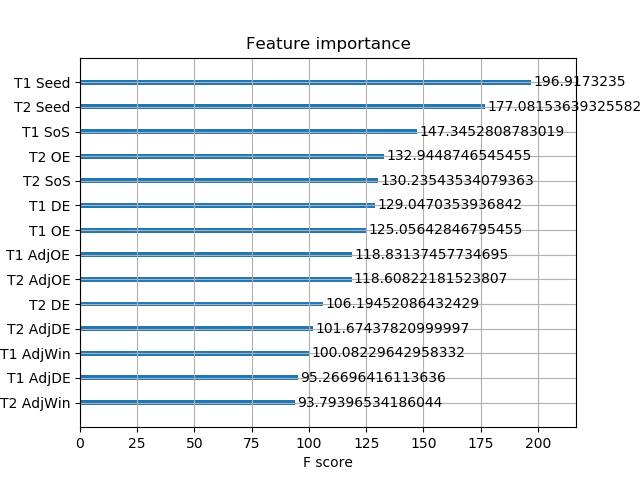
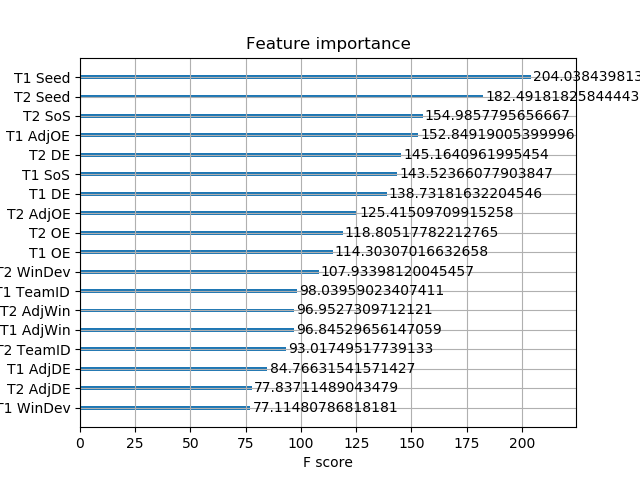
Updated code for best functioning models.

diff --git a/parse_data.py b/parse_data.py
@@ -6,7 +6,7 @@ def parse_data(season_file, teams_file, sos_file):
     # read csv into panda dataframe using headers and found delimiter
     season_data = pd.read_csv(season_file, delimiter=',')
     team_info = pd.read_csv(teams_file, delimiter=',', encoding="latin1")
-    sos_info = pd.read_csv(sos_file, delimiter='\t')
+    sos_info = pd.read_csv(sos_file, delimiter=',')
     
     team_data_cols = [
         "Year",
@@ -62,7 +62,7 @@ def parse_data(season_file, teams_file, sos_file):
         i += 2
         year = game.Season
 
-    team_data.to_csv("/home/sherndo/Documents/Classes/MachineLearning/ML_Project/season_results.csv", index=False)
+    team_data.to_csv("/home/sherndo/Documents/Classes/MachineLearning/ML_Project/season_results_2019.csv", index=False)
     sos_cols = [
         "Year",
         "TeamID",
@@ -71,6 +71,7 @@ def parse_data(season_file, teams_file, sos_file):
     ]
     sos_data = pd.DataFrame(columns=sos_cols)
     i = 0
+    bad = set()
     for index, item in sos_info.iterrows():
         tid = team_info.loc[team_info['TeamNameSpelling'] == item.SCHOOL.lower()].TeamID
         if tid.empty:
@@ -86,14 +87,14 @@ def parse_data(season_file, teams_file, sos_file):
         sos_data.loc[i] = row
         i += 1
 
-    sos_data.to_csv("/home/sherndo/Documents/Classes/MachineLearning/ML_Project/sos_results.csv", index=False)
+    sos_data.to_csv("/home/sherndo/Documents/Classes/MachineLearning/ML_Project/sos_results_2019.csv", index=False)
 
     return
 
 
 if __name__=="__main__":
-    season_file = "/home/sherndo/Documents/Classes/MachineLearning/ML_Project/mens-machine-learning-competition-2018/RegularSeasonDetailedResults.csv"
-    team_file = "/home/sherndo/Documents/Classes/MachineLearning/ML_Project/mens-machine-learning-competition-2018/TeamSpellings.csv"
-    sos_file = "/home/sherndo/Documents/Classes/MachineLearning/ML_Project/mens-machine-learning-competition-2018/StrengthOfSchedule.csv"
+    season_file = "/home/sherndo/Documents/Classes/MachineLearning/ML_Project/mens-machine-learning-competition-2019/RegularSeasonDetailedResults.csv"
+    team_file = "/home/sherndo/Documents/Classes/MachineLearning/ML_Project/mens-machine-learning-competition-2019/TeamSpellings.csv"
+    sos_file = "/home/sherndo/Documents/Classes/MachineLearning/ML_Project/mens-machine-learning-competition-2019/StrengthOfSchedule.csv"
 
     parse_data(season_file, team_file, sos_file)

diff --git a/krieg_plot_mm_results.py b/krieg_plot_mm_results.py
@@ -1,6 +1,8 @@
 import pandas as pd
 from itertools import product
 import seaborn as sns
+import matplotlib.pyplot as plt
+
 sns.set(style="darkgrid", font_scale=1.8, rc={"lines.linewidth": 4, "font.family":"Times New Roman"})
 
 df = pd.read_csv('krieg_mm_results.csv')
@@ -22,6 +24,10 @@ for y, m in product(years, models):
         
     
 sns.relplot(data=df_new, kind='line', x='Test Year',y='Accuracy', hue='Model', style='Model', height=10, aspect=2)
+plt.savefig("accall.png")
 sns.catplot(data=df_new, x='Model', y='Accuracy', kind='violin', ci='sd', height=8, aspect=1.5)
+plt.savefig("accavg.png")
 sns.relplot(data=df_new[df_new['Model'] != 'Seed'], kind='line', x='Test Year',y='Log Loss',hue='Model', style='Model', height=10, aspect=2)
+plt.savefig("loglossall.png")
 sns.catplot(data=df_new[df_new['Model'] != 'Seed'], x='Model', y='Log Loss', kind='violin', ci='sd', height=8, aspect=1.5)
+plt.savefig("loglossavg.png")

diff --git a/krieg_mm_analysis.py b/krieg_mm_analysis.py
@@ -58,7 +58,6 @@ lr = LogisticRegression(penalty='l2', tol=0.001, C=1000,solver='liblinear',rando
 xgb = XGBClassifier(n_jobs=8,random_state=7, max_depth=3, booster='gbtree', learning_rate=0.1, colsample_bytree=0.3, gamma=0.2, min_child_weight=1, subsample=0.7)
 
 for year in x['Year'].unique():
-    # if year >= 2016:
     print(f'Testing year {year}')
 
     x_train = x[x['Year'] != year].drop(cols_to_exclude, axis=1)
